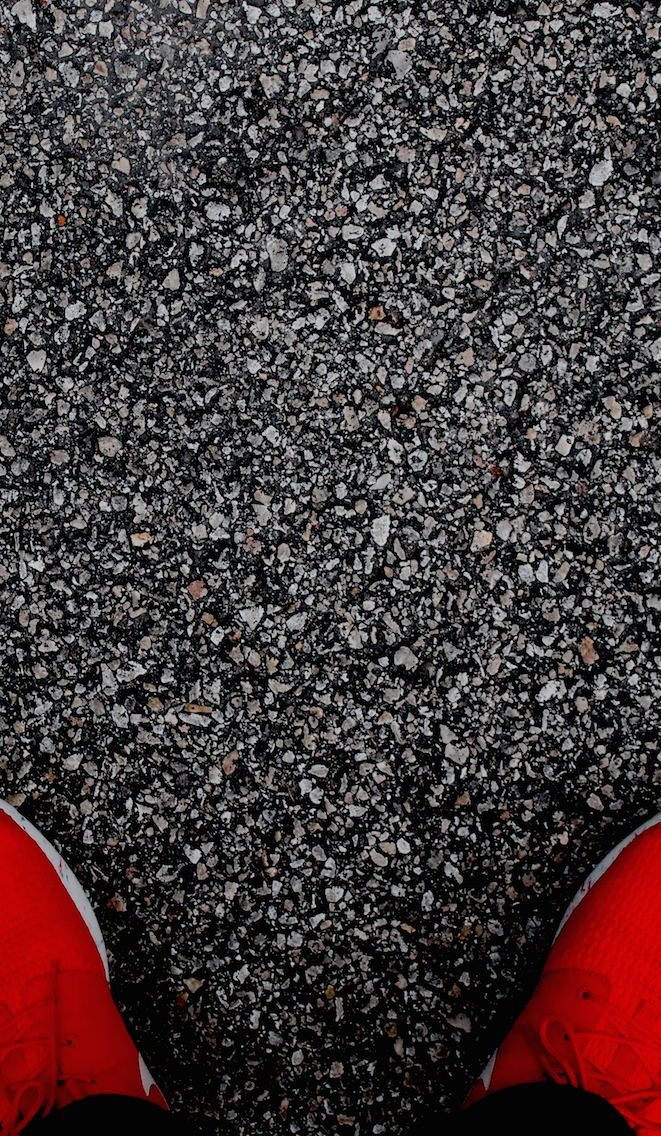
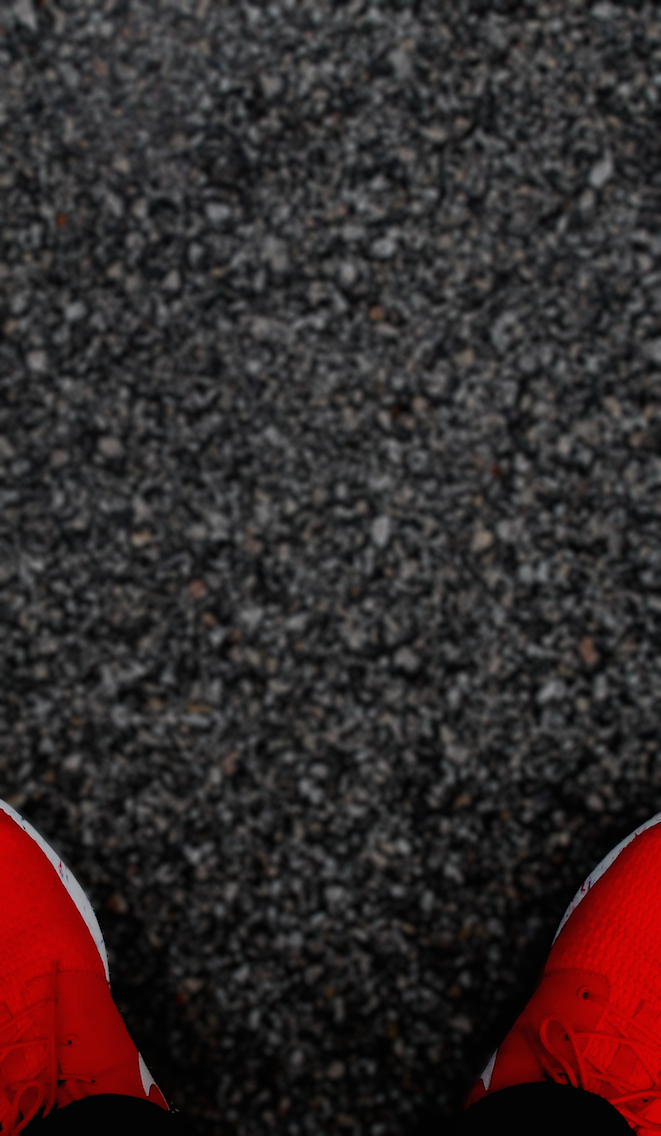
darken bg and views comin through

diff --git a/www/templates/menu.html b/www/templates/menu.html
@@ -14,19 +14,19 @@
   </ion-side-menu-content>
 
   <ion-side-menu side="left">
-    <ion-header-bar class="bar-stable">
+    <ion-header-bar class="bar-stable" href="#/app">
       <h1 class="title">Menu</h1>
     </ion-header-bar>
     <ion-content>
       <ion-list>
-        <ion-item menu-close href="#/app/intro">
+        <ion-item menu-close href="#/app/story">
           Story
         </ion-item>
         <ion-item menu-close href="#/app/projects">
           Projects
         </ion-item>
         <ion-item menu-close href="#/app/about">
-          Projects
+          About
         </ion-item>
         <ion-item menu-close href="#/app/resume">
           Resume

diff --git a/www/css/style.css b/www/css/style.css
@@ -1,14 +1,33 @@
-.home {
-	text-align: center;
-	margin-top: 15%;
+/* GENERAL OVERRIDES */
+em {
+	font-style: italic;
 }
 
-.home h2 {
+strong, b {
+	font-weight: bold;
+}
+
+.title {
+	font-size: 24px;
 	color: #FFFFFF;
 }
 
-/* Main View Background*/
+
+/* HOME */
+.home {
+	text-align: center;
+	margin-top: 25%;
+}
+
+.home h3, .home h5, .home p {
+	color: #FFFFFF;
+}
+
 ion-view.pane {
 	background-image: url(../img/main_bg.png);
 	background-size: cover;
+}
+
+.center {
+	text-align: center;
 }

diff --git a/www/js/app.js b/www/js/app.js
@@ -30,11 +30,11 @@ angular.module('starter', ['ionic', 'starter.controllers'])
     controller: 'AppCtrl'
   })
 
-  .state('app.search', {
-    url: "/search",
+  .state('app.story', {
+    url: "/story",
     views: {
       'menuContent': {
-        templateUrl: "templates/search.html"
+        templateUrl: "templates/story.html"
       }
     }
   })

diff --git a/www/templates/home.html b/www/templates/home.html
@@ -1,8 +1,10 @@
-<ion-view view-title="Projects">
+<ion-view>
   <ion-content>
 	  <div class="home">
 			<img src="../img/hype_logo.png" height="120" width="120" alt="">
-			<h2>RANDY TOLENTINO</h2>
+			<h3 class="title">RANDY TOLENTINO</h3>
+			<h5>FAMILY MAN / DEVELOPER</h5>
+			<p><em>"I do this shit"</em></p>
 		</div>
   </ion-content>
 </ion-view>

diff --git a/www/templates/story.html b/www/templates/story.html
@@ -1,0 +1,7 @@
+<ion-view view-title="Story">
+  <ion-content class="padding">
+	  <div class="center">
+	    <h1 class="title">How I got here</h1>
+	  </div>
+  </ion-content>
+</ion-view>
